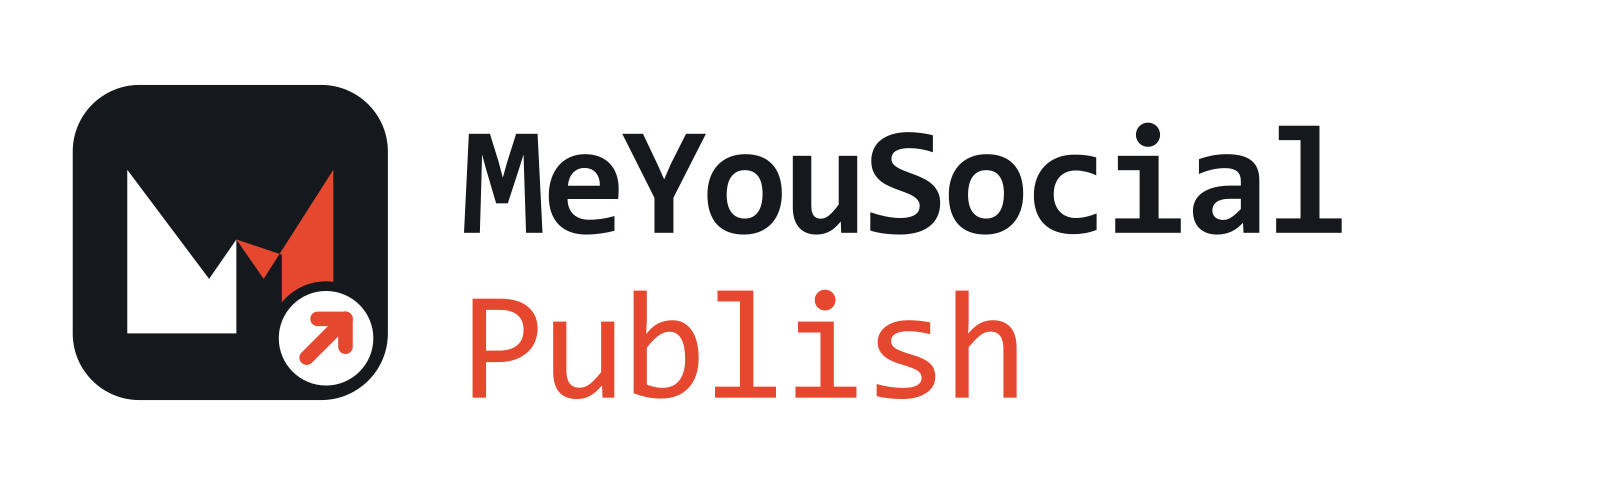
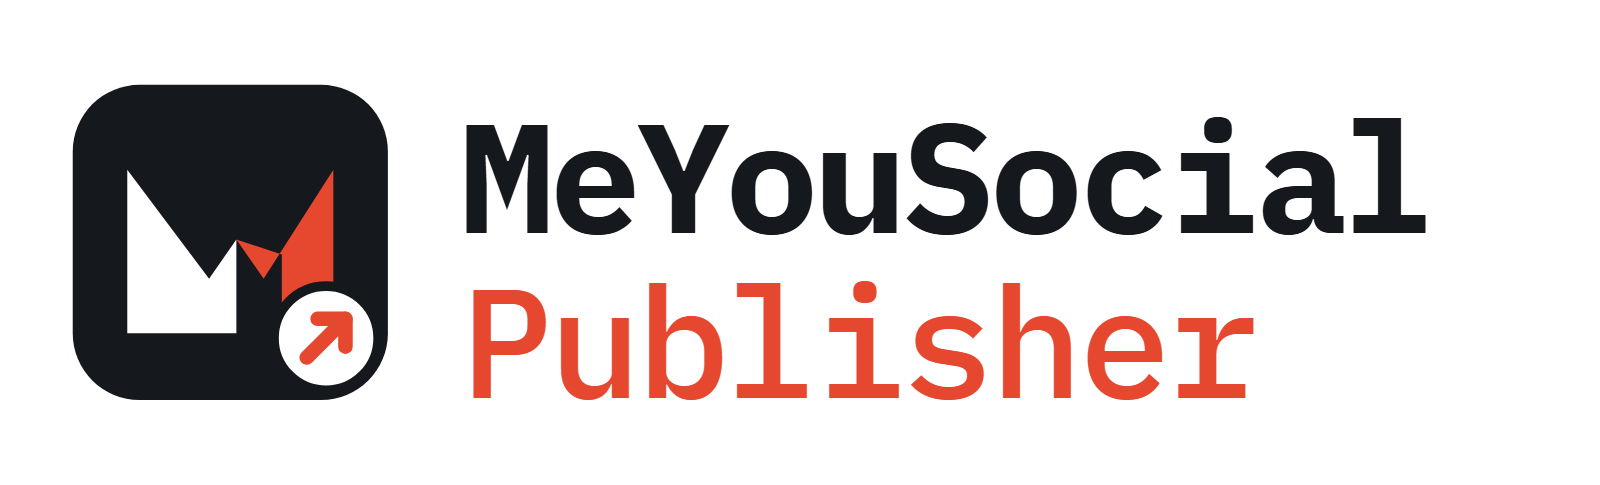
Rename the product to MeYouSocial Publisher
PRODUCT / PRODUCT_SHORT in src/lib/product.ts now read "MeYouSocial
Publisher" / "Publisher"; the remaining hard-coded spellings (owner's
guide, assistant system prompt and app map, guide welcome, help centre,
env default, favicon comments, fetch user-agent) follow. The Publish
*stage* keeps its name. Brand lockup SVGs and their PNG renders say
Publisher; asset filenames are unchanged. Docs, README, CLAUDE.md and the
operator skill updated. Contracts untouched: X-MeYouSocial-Token header,
Drive folder name, repo and Railway service names.

tsc --noEmit clean; next build passes (97 pages).

Changed region(s): [[0.2812, 0.2165, 0.9062, 0.4948], [0.2812, 0.5876, 0.7812, 0.8351]]

diff --git a/src/lib/assistant/knowledge.ts b/src/lib/assistant/knowledge.ts
@@ -12,7 +12,7 @@
  *     one topic, so the answer is the app's own rather than a guess.
  */
 
-export const APP_MAP_BRIEF = `MeYouSocial Publish (this app; MeYouSocial is the family brand for it and its sibling apps) is one loop: Research → Ideas → Drafts → Publish → Distribute → Measure, with Inbox above it (everything waiting on a person, the action on each card — reviewing IS the Inbox, there is no separate Review stage) and Setup below it (Settings · Channels · Brand; admins only — the operator pages are tabs of Settings). The assistant (you) is on every page as the Ask dock and can do nearly everything a person can; outward-facing acts are proposed and run on a yes. Every page a stage owns shows a strip: STAGE · Overview · its tabs, with count badges (red = a person must act).
+export const APP_MAP_BRIEF = `MeYouSocial Publisher (this app; MeYouSocial is the family brand for it and its sibling apps) is one loop: Research → Ideas → Drafts → Publish → Distribute → Measure, with Inbox above it (everything waiting on a person, the action on each card — reviewing IS the Inbox, there is no separate Review stage) and Setup below it (Settings · Channels · Brand; admins only — the operator pages are tabs of Settings). The assistant (you) is on every page as the Ask dock and can do nearly everything a person can; outward-facing acts are proposed and run on a yes. Every page a stage owns shows a strip: STAGE · Overview · its tabs, with count badges (red = a person must act).
 Stages and tabs: Research (Intel, Bookmarks, Competitors) · Ideas — one board for article and video ideas, four columns Discovered/Approved/Drafted/Rejected (tabs Keywords, Experts) · Drafts (Articles — one page with a Board/List toggle; Scripts, Thumbnails, Videos, Production when the video studio is on) · Publish (Approvals, Audit, Website, Blog calendar; Download HTML and Mark as published when there is no WordPress) · Distribute (Compose, Calendar, Engage) · Measure (Reports, Insights, Blog analytics, Blog report, Social performance, YouTube audit — the own-channel audit from the YouTube Analytics API) · Settings by question: People (roles, invitations, require approval), Automation (full autonomy, pause, weekly article target, publish day, SEO on drafts, social auto-dials, function modes), Schedule (slots, timezone, best time, UTM, campaigns), Connections (what is connected and what is missing), and for admins Keys, Analytics, Email, Workspace, Usage · Brand (Tone & motifs, Organization).
 The engine: a 30-minute autopilot sweep discovers ideas, drafts APPROVED ideas up to the weekly target, fills SEO, renders and vision-reviews images, sources [NEEDS SOURCE] claims by live search, applies mechanical findings, advances articles that pass every required check, publishes on the publish day, writes and queues social posts, recycles evergreen, syncs results. Required checks: meta title, meta description, slug, focus keyword in title, a body, alt text on images, no unresolved [NEEDS SOURCE] markers, every citation verified, a branded Open Graph image. What still stops a post: a claim no source supports, an image that keeps failing inspection, no WordPress connection, no working AI key. Article statuses: drafting → draft_review → final_approval → published. Idea statuses: discovered → approved → drafted (only approved ideas are drafted; approving is a person's act). Silence means all clear: the digest emails admins only when something needs them.`;
 

diff --git a/src/lib/assistant/run.ts b/src/lib/assistant/run.ts
@@ -74,7 +74,7 @@ To answer the person (you are done for this turn):
 {"answer": "<your reply, in plain words>", "links": [{"label": "<button text>", "href": "</path/in/the/app>"}]}`;
 
 function systemPrompt(brand: string | null, workspaceName: string, role: string, page: string | null, channel: string | null): string {
-  return `You are the assistant inside MeYouSocial Publish (the product; MeYouSocial is the family brand), working for the company "${workspaceName}" alongside a person whose role is ${role}. You can do nearly everything they can do in the app, by calling tools, and you explain plainly what happened. You are also their guide: if they seem lost or ask what to do, call next_steps and lay out the next moves, most important first, and offer to do the first one.
+  return `You are the assistant inside MeYouSocial Publisher (the product; MeYouSocial is the family brand), working for the company "${workspaceName}" alongside a person whose role is ${role}. You can do nearly everything they can do in the app, by calling tools, and you explain plainly what happened. You are also their guide: if they seem lost or ask what to do, call next_steps and lay out the next moves, most important first, and offer to do the first one.
 
 ${PROTOCOL}
 

diff --git a/src/app/(app)/help/guide/page.tsx b/src/app/(app)/help/guide/page.tsx
@@ -16,7 +16,7 @@ import {
  * change this page (and lib/assistant/knowledge.ts) in the same commit.
  */
 
-export const metadata = { title: "Owner's guide — MeYouSocial Publish" };
+export const metadata = { title: "Owner's guide — MeYouSocial Publisher" };
 
 export default function GuidePage() {
   return (
@@ -42,7 +42,7 @@ export default function GuidePage() {
           <Compass className="w-4 h-4" style={{ color: "var(--blue-on)" }} /> What this app is, in one paragraph
         </h2>
         <p className="text-sm leading-[1.65] mb-3">
-          MeYouSocial Publish is a content engine that runs mostly on its own: it researches what&apos;s worth saying,
+          MeYouSocial Publisher is a content engine that runs mostly on its own: it researches what&apos;s worth saying,
           drafts articles and social posts (with their images and SEO), reviews its own work, schedules and
           publishes what passes, and pulls the results back in. <b>Your job is decisions, not production</b> —
           approving, answering, adjusting, occasionally steering. The whole interface is one loop: the left rail

diff --git a/src/lib/product.ts b/src/lib/product.ts
@@ -1,8 +1,8 @@
 /**
- * What this app is called (renamed 2026-09-09, the owner's decision).
+ * What this app is called (renamed 2026-09-09 to Publish and 2026-09-22 to Publisher, the owner's decisions).
  *
  * MeYouSocial is the FAMILY brand — the umbrella for this app and its sibling
- * apps. This app is MeYouSocial Publish. Use PRODUCT wherever the app names
+ * apps. This app is MeYouSocial Publisher. Use PRODUCT wherever the app names
  * itself (titles, the wordmark byline, invitations, exports, the assistant),
  * BRAND for account-level things that span the family (password reset, the
  * logo mark, the default sender name), and PRODUCT_SHORT beside the brand
@@ -13,6 +13,6 @@
  * and Railway service names.
  */
 export const BRAND = "MeYouSocial";
-export const PRODUCT = "MeYouSocial Publish";
-export const PRODUCT_SHORT = "Publish";
+export const PRODUCT = "MeYouSocial Publisher";
+export const PRODUCT_SHORT = "Publisher";
 export const PRODUCT_TAGLINE = "One loop from research to results: ideas, articles, social posts, publishing and measurement, mostly on their own.";

diff --git a/src/lib/assistant/context.ts b/src/lib/assistant/context.ts
@@ -56,7 +56,7 @@ export async function fetchPageText(url: string, maxChars = 6000): Promise<{ ok:
   const ctrl = new AbortController();
   const timer = setTimeout(() => ctrl.abort(), 12_000);
   try {
-    const res = await fetch(u.toString(), { signal: ctrl.signal, redirect: "follow", headers: { "user-agent": "Mozilla/5.0 (compatible; MeYouSocial Publish assistant)", accept: "text/html,application/xhtml+xml,text/plain;q=0.9,*/*;q=0.5" } });
+    const res = await fetch(u.toString(), { signal: ctrl.signal, redirect: "follow", headers: { "user-agent": "Mozilla/5.0 (compatible; MeYouSocial Publisher assistant)", accept: "text/html,application/xhtml+xml,text/plain;q=0.9,*/*;q=0.5" } });
     if (!res.ok) return { ok: false, reason: `the page answered ${res.status}` };
     const type = res.headers.get("content-type") ?? "";
     if (!/text\/html|text\/plain|application\/xhtml/.test(type)) return { ok: false, reason: `not a readable page (${type.split(";")[0] || "unknown type"})` };

diff --git a/src/app/(app)/layout.tsx b/src/app/(app)/layout.tsx
@@ -220,7 +220,7 @@ html[data-theme="dark"] .ws-brand {
           </span>
           <span className="hidden @6xl:flex flex-col min-w-0">
             <span className="font-mono font-bold text-[17px] tracking-tight truncate max-w-[160px] leading-tight">{brandName}</span>
-            {/* The product byline — "Publish" under the family wordmark, or the
+            {/* The product byline — "Publisher" under the family wordmark, or the
                 full product name under a tenant's own name. Hidden with the
                 wordmark when the rail collapses to icons; there is no room. */}
             <span className="flex items-center gap-1 text-[10px] font-mono uppercase tracking-wider text-[var(--mute)] leading-tight mt-0.5">

diff --git a/src/lib/help.ts b/src/lib/help.ts
@@ -526,7 +526,7 @@ export const HELP_CATEGORIES: FaqCategory[] = [
       },
       {
         q: "Is there a cost?",
-        a: "No. MeYouSocial Publish has no billing, no credits, no payments. AI usage is unmetered for invited members. Admins can optionally set soft monthly limits per user (under Settings → Usage) to bound shared infrastructure cost.",
+        a: "No. MeYouSocial Publisher has no billing, no credits, no payments. AI usage is unmetered for invited members. Admins can optionally set soft monthly limits per user (under Settings → Usage) to bound shared infrastructure cost.",
         tags: ["cost", "billing", "limits"],
       },
       {

diff --git a/src/lib/guide/steps.ts b/src/lib/guide/steps.ts
@@ -100,7 +100,7 @@ export const STEPS: GuideStep[] = [
     track: "essentials",
     title: `Hello, I'm ${ELSIE_NAME}`,
     body:
-      "Your guide to MeYouSocial Publish, from LSI Media. I'll flag anything still worth setting up, then you can pick a tour — " +
+      "Your guide to MeYouSocial Publisher, from LSI Media. I'll flag anything still worth setting up, then you can pick a tour — " +
       "each one is short. Stop any time; I'm the button in the top bar whenever you want me back.",
   },
 

diff --git a/src/lib/env.ts b/src/lib/env.ts
@@ -16,7 +16,7 @@ function num(v: string | undefined): number | undefined {
 export const env = {
   NODE_ENV: str(process.env.NODE_ENV, "development"),
   APP_URL: str(process.env.APP_URL, "http://localhost:3000"),
-  APP_NAME: str(process.env.APP_NAME, "MeYouSocial Publish"),
+  APP_NAME: str(process.env.APP_NAME, "MeYouSocial Publisher"),
   BOOTSTRAP_ADMIN_EMAIL: str(process.env.BOOTSTRAP_ADMIN_EMAIL).toLowerCase(),
 
   DATABASE_URL: str(process.env.DATABASE_URL),

diff --git a/src/app/apple-icon.tsx b/src/app/apple-icon.tsx
@@ -1,6 +1,6 @@
 import { ImageResponse } from "next/og";
 
-// iOS Home Screen icon — the MeYouSocial Publish mark (the folded-broadsheet M
+// iOS Home Screen icon — the MeYouSocial Publisher mark (the folded-broadsheet M
 // with the product chip). iOS specifically looks for <link rel="apple-touch-icon">;
 // Next auto-injects it for apple-icon.tsx. 180x180 is Apple's recommended size;
 // iOS rounds the corners itself, so the chip sits just inside that mask.

diff --git a/src/app/icon.tsx b/src/app/icon.tsx
@@ -1,6 +1,6 @@
 import { ImageResponse } from "next/og";
 
-// Browser-tab favicon — the MeYouSocial Publish mark: the folded-broadsheet M
+// Browser-tab favicon — the MeYouSocial Publisher mark: the folded-broadsheet M
 // (ink badge, white and coral folds) with the product chip at the corner (a
 // white, ink-ringed disc carrying a coral arrow — "out into the world").
 // Favicon-tuned geometry: the M fills more of the badge than the in-app

diff --git a/.claude/skills/meyousocial/SKILL.md b/.claude/skills/meyousocial/SKILL.md
@@ -1,17 +1,17 @@
 ---
 name: meyousocial
-description: "Operate, manage, verify and explain MeYouSocial Publish (the product; MeYouSocial is the family brand) — the multi-tenant AI content engine (research → ideas → drafts → review → publish → distribute → measure). Use for any question or task about the app: what a page does, which dial to change, why an article is held, the daily/weekly/monthly routines, repeatable processes (publish an article, onboard a workspace, handle a held image or an unsourced claim, publish without WordPress), troubleshooting, and — for Claude working in the repo — the house rules, deploy flow and production verification recipes. Triggers: MeYouSocial, autopilot, Inbox, stage strip, Ideas board, Drafts, Review, Publish, Distribute, Measure, Settings, full autonomy, publish day, posting slots, Zernio, Intel, findings, citations, NEEDS SOURCE, HTML export, Elsie."
+description: "Operate, manage, verify and explain MeYouSocial Publisher (the product; MeYouSocial is the family brand) — the multi-tenant AI content engine (research → ideas → drafts → review → publish → distribute → measure). Use for any question or task about the app: what a page does, which dial to change, why an article is held, the daily/weekly/monthly routines, repeatable processes (publish an article, onboard a workspace, handle a held image or an unsourced claim, publish without WordPress), troubleshooting, and — for Claude working in the repo — the house rules, deploy flow and production verification recipes. Triggers: MeYouSocial, autopilot, Inbox, stage strip, Ideas board, Drafts, Review, Publish, Distribute, Measure, Settings, full autonomy, publish day, posting slots, Zernio, Intel, findings, citations, NEEDS SOURCE, HTML export, Elsie."
 argument-hint: "[question | task | 'routine daily|weekly|monthly' | 'process <name>' | 'troubleshoot <symptom>']"
 metadata:
   author: Idris Grant / Claude
   version: "1.0.0"
-  app: MeYouSocial Publish (Next.js 16, Prisma, Railway)
+  app: MeYouSocial Publisher (Next.js 16, Prisma, Railway)
   updated: 2026-09-08
 ---
 
-# MeYouSocial Publish — the operator's skill
+# MeYouSocial Publisher — the operator's skill
 
-**MeYouSocial Publish** is a content engine that runs mostly on its own, for several companies on one install. (MeYouSocial is the family brand for it and its sibling apps — renamed 2026-09-09; the names live in `src/lib/product.ts`; the API header `X-MeYouSocial-Token` and the Drive folder name are contracts and did not change.) It researches what is worth saying, drafts articles and social posts (with their images and SEO), holds everything at review gates, publishes to a website and to social networks on a schedule, and pulls the results back in. **A person's job is decisions, not production.**
+**MeYouSocial Publisher** is a content engine that runs mostly on its own, for several companies on one install. (MeYouSocial is the family brand for it and its sibling apps — renamed 2026-09-09; the names live in `src/lib/product.ts`; the API header `X-MeYouSocial-Token` and the Drive folder name are contracts and did not change.) It researches what is worth saying, drafts articles and social posts (with their images and SEO), holds everything at review gates, publishes to a website and to social networks on a schedule, and pulls the results back in. **A person's job is decisions, not production.**
 
 This skill makes any Claude an expert operator of the app: as a *user* (what every page and dial does, the routines that get the most out of it) and, in §7, as the *engineer* who maintains it (repo rules, deploy, production verification). Read §1–§3 before answering anything about the app; jump to §5 for routines and processes; §6 for "why is X stuck".
 
